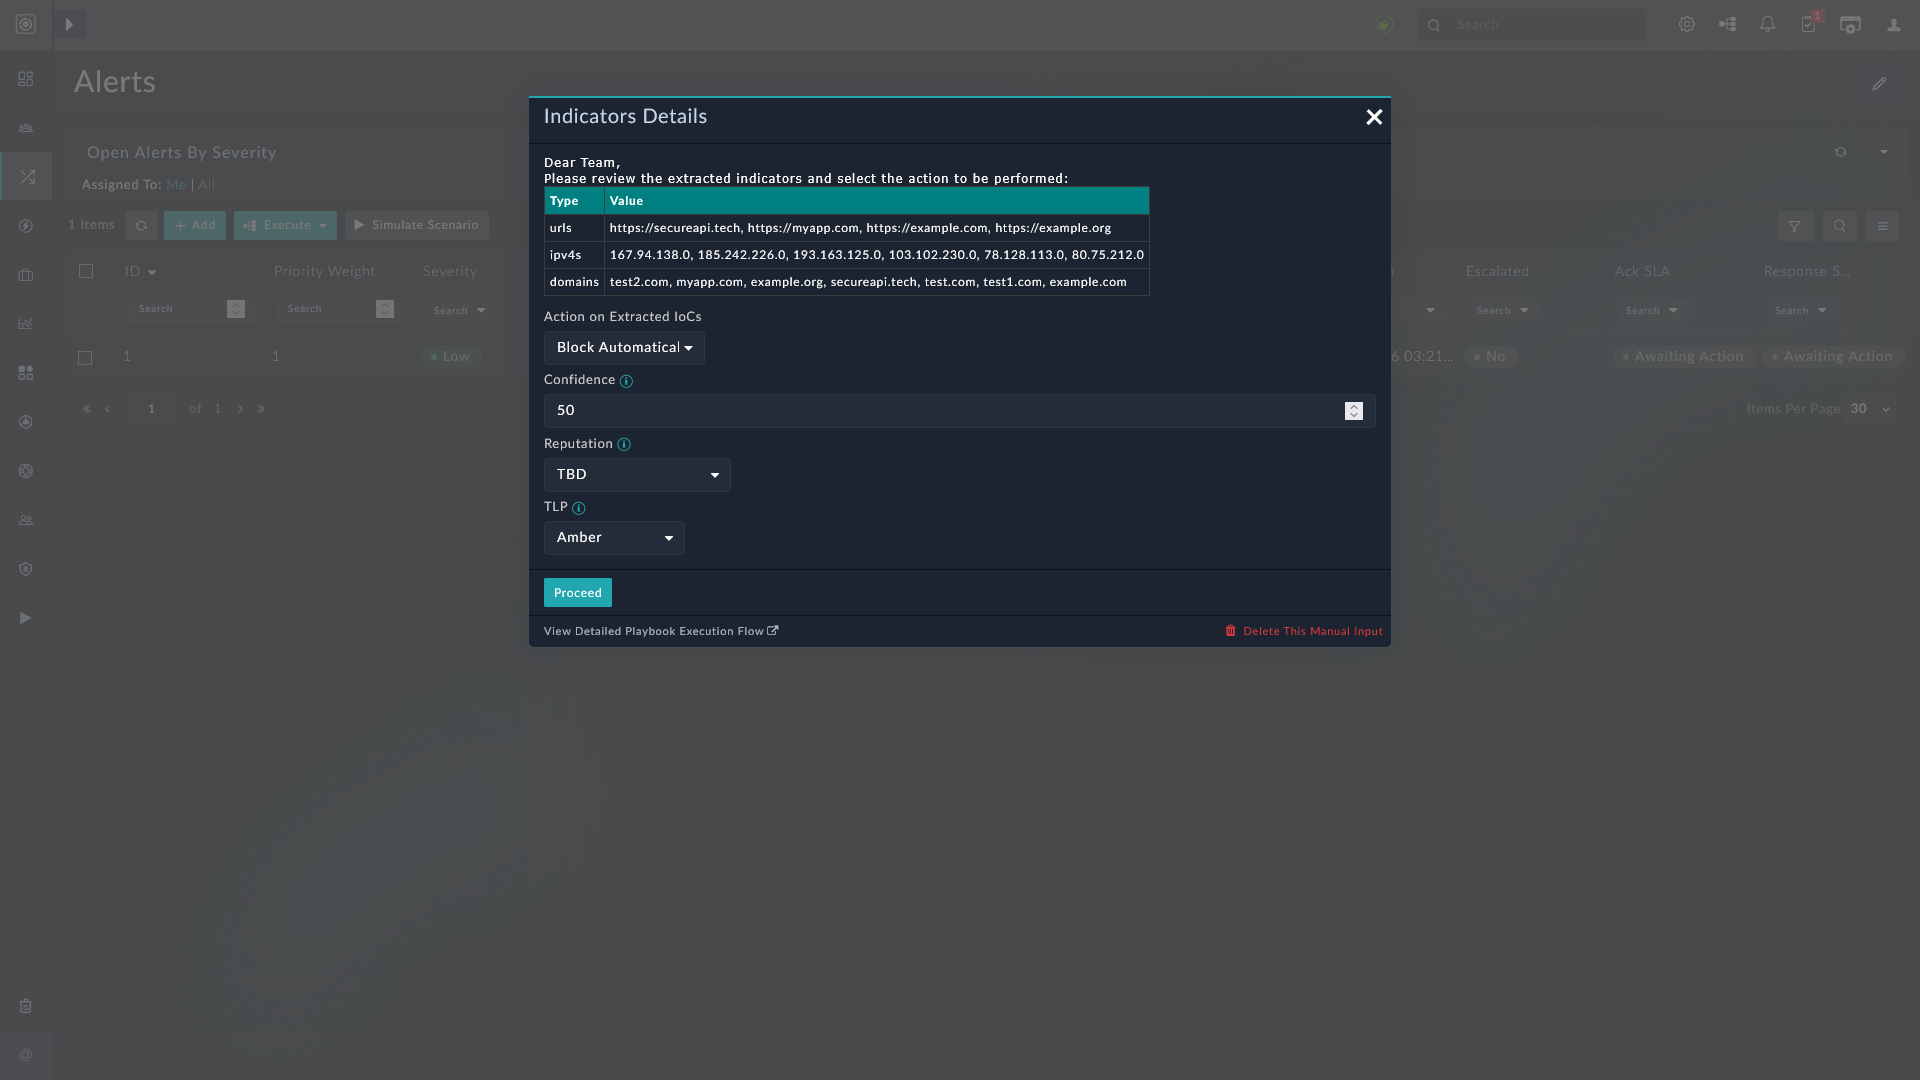
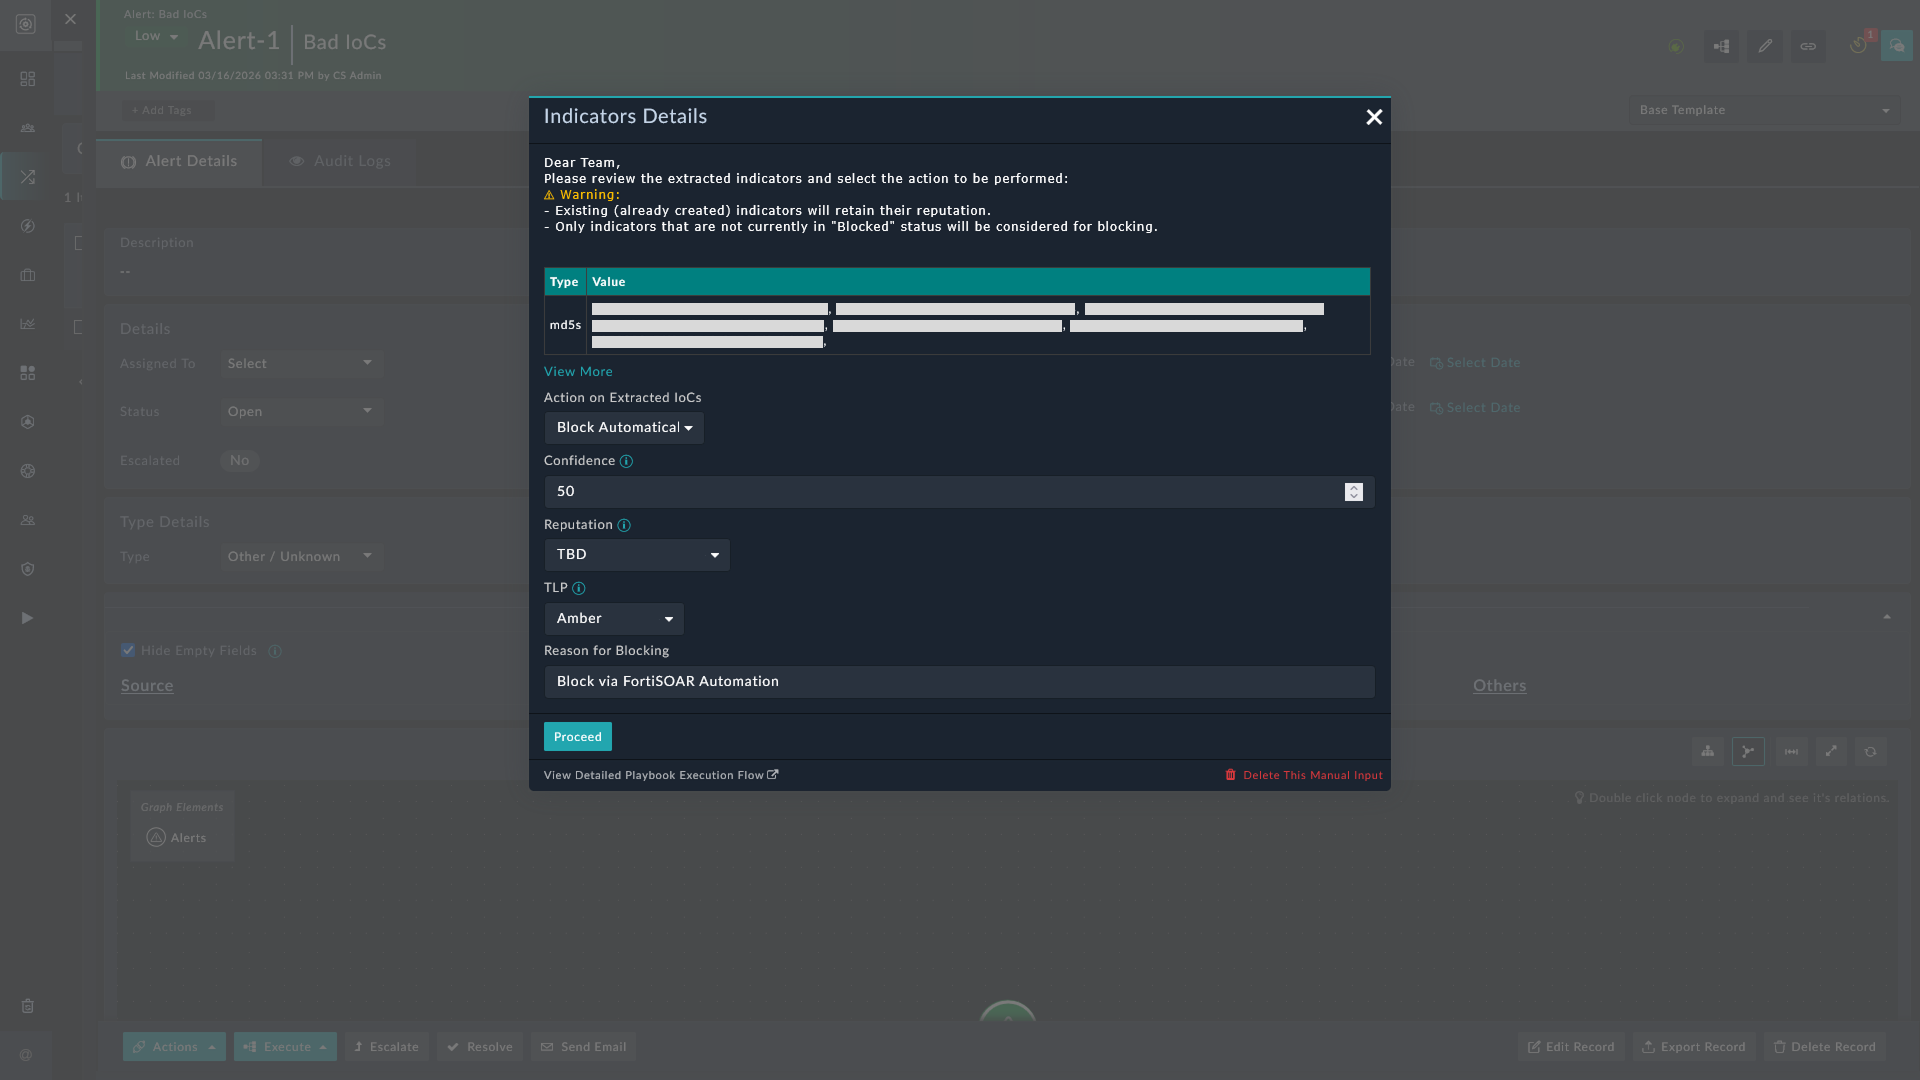
Updated the doc as per the new design changes

diff --git a/docs/usage.md b/docs/usage.md
@@ -38,34 +38,46 @@ Navigate to the demo alert and note the following:
     ![Manual Input IoC details](./res/ioc-details-manual-input.png)
 
     On the manual input, users have the following actions available:
+    - Block Automatically
+    - Block Manually
+    - Do Not Block
 
-    - **Block Automatically**: Creates indicator records, marks their status as **Blocked**, and prompts for metadata (*Confidence*, *TLP*, *Reputation*).
+>[!Important]
+>For existing IoC records:
+>- Only the *Expires On*, *Confidence*, and *Last Seen* fields are updated; the reputation remains unchanged
+>- If the status of the IoCs is not *Blocked*, only then the IoCs are considered for blocking.
 
-        ![Define values before automatically blocking IoCs](./res/auto-block-ioc-options.png)
+### Block Automatically
 
-        Clicking **Proceed** triggers the following actions:
+Creates indicator records, marks their status as **Blocked**, and prompts for metadata (*Confidence*, *TLP*, *Reputation*).
 
-        - Creates IoC records under the module **Indicators** with *Confidence*, *TLP*, *Reputation*, and *Reason for Blocking* as specified in the manual input.
+![Define values before automatically blocking IoCs](./res/auto-block-ioc-options.png)
 
-        - Sets the status of the indicator records to **Blocked**.
+Clicking **Proceed** triggers the following actions:
 
-        - Sends the blocked IoCs to downstream blocking playbooks.
+- Creates IoC records under the module **Indicators** with *Confidence*, *TLP*, *Reputation*, and *Reason for Blocking* as specified in the manual input.
 
-        - For *each* indicator record created, a manual input like the following, asks users confirm that the indicator has been blocked.
+- Sets the status of the indicator records to **Blocked**.
 
-            ![](./res/blocking-confirmation.png)
+- For *each* indicator record created, a manual input like the following, asks users to confirm that the indicator has been blocked.
 
-    - **Block Manually**: Creates indicator records without modifying the status, and prompts for metadata (*Confidence*, *TLP*, *Reputation*)
+    ![](./res/blocking-confirmation.png)
 
-        Clicking **Proceed** triggers the following actions:
+### Block Manually
 
-        - Allows users to review and update the status of the indicator records later
+Creates indicator records *without modifying the status*, and prompts for metadata (*Confidence*, *TLP*, *Reputation*).
 
-        - Creates IoC records under the module **Indicators** with *Confidence*, *TLP*, and *Reputation* as specified in the manual input.
+![Define values before automatically blocking IoCs](./res/manual-block-ioc-options.png)
 
-    - **Reject**
+Clicking **Proceed** triggers the following actions:
 
-        - No action is taken on the extracted indicators
+- Creates IoC records under the module **Indicators** with *Confidence*, *TLP*, and *Reputation* as specified in the manual input.
+
+- Allows users to review and update the status of the indicator records later
+
+### Do Not Block
+
+No action is taken on the extracted indicators
 
 
 ## Next Steps

diff --git a/README.md b/README.md
@@ -10,28 +10,27 @@
 
 # Overview
 
-The **IOC Processing** Solution Pack streamlines the transition from raw email-based intelligence to active security posture. It automates the ingestion and parsing of email attachments, enabling SOC Analysts and CSEs to process threat indicators without manual data entry.
+The **IOC Processing** Solution Pack converts email-based threat intelligence into actionable indicators inside FortiSOAR. It automatically ingests email attachments and extracts indicators for analysts to review and take appropriate action.
 
 ### Core Functionality
 
-<!-- - **Automated Ingestion:** Integrates with **Exchange** or **SMTP** connectors to monitor mailboxes and convert incoming emails into FortiSOAR *Alerts* and uploading file attachments as linked FortiSOAR *Attachment* records. -->
+- **Multi-Format Extraction**: Utilizes the **File Content Extraction** connector to identify indicators (**IP**, **Domain**, **URL**, **Hash**) from supported file types, including `.zip` archives.
 
-- **Multi-Format Extraction:** Utilizes the **File Content Extraction** connector to identify full-spectrum indicators (**IP**, **Domain**, **URL**, **Hash**) from supported file types, including `.zip` archives.
+- **Analyst-Driven Triage**: Features a manually-triggered playbook that allows users to review findings and select a response:
 
-- **Analyst-Driven Triage:** Features a manually-triggered playbook that allows users to review findings and select a response:
-    - **Block:** Push indicators to the security fabric.
-    - **Record:** Log IoC records for future monitoring.
-    - **Reject:** Dismiss irrelevant or false-positive data.
+    - **Block Automatically**: Create IoC records and push them to the security fabric.
 
-<!-- - **Enrichment Integration:** Can leverage user-configured connectors (e.g., **VirusTotal**) to provide immediate context and risk scoring for all extracted indicators. -->
+    - **Block Manually**: Create IoC records to be reviewed later.
+
+    - **Do Not Block**: Dismisses presented data and does not create IoC records.
 
 ### Operational Benefits
 
-- **Controlled Remediation:** Maintains a "Human-in-the-Loop" model, ensuring that automated ingestion is balanced with expert validation before any blocking action occurs.
+- **Controlled Remediation**: Maintains a *Human-in-the-Loop* model, ensuring that automated ingestion is balanced with expert validation before any blocking action occurs.
 
-- **Standardized Workflow:** Replaces ad-hoc attachment processing with a consistent, repeatable framework for handling intelligence digests.
+- **Standardized Workflow**: Replaces ad-hoc attachment processing with a consistent, repeatable framework for handling intelligence digests.
 
-- **Auditable Oversight:** Every analyst decision is recorded within the platform, providing a transparent audit trail for compliance and reporting.
+- **Auditable Oversight**: Every analyst decision is recorded within the platform, providing a transparent audit trail for compliance and reporting.
 
 ## Next Steps
 
